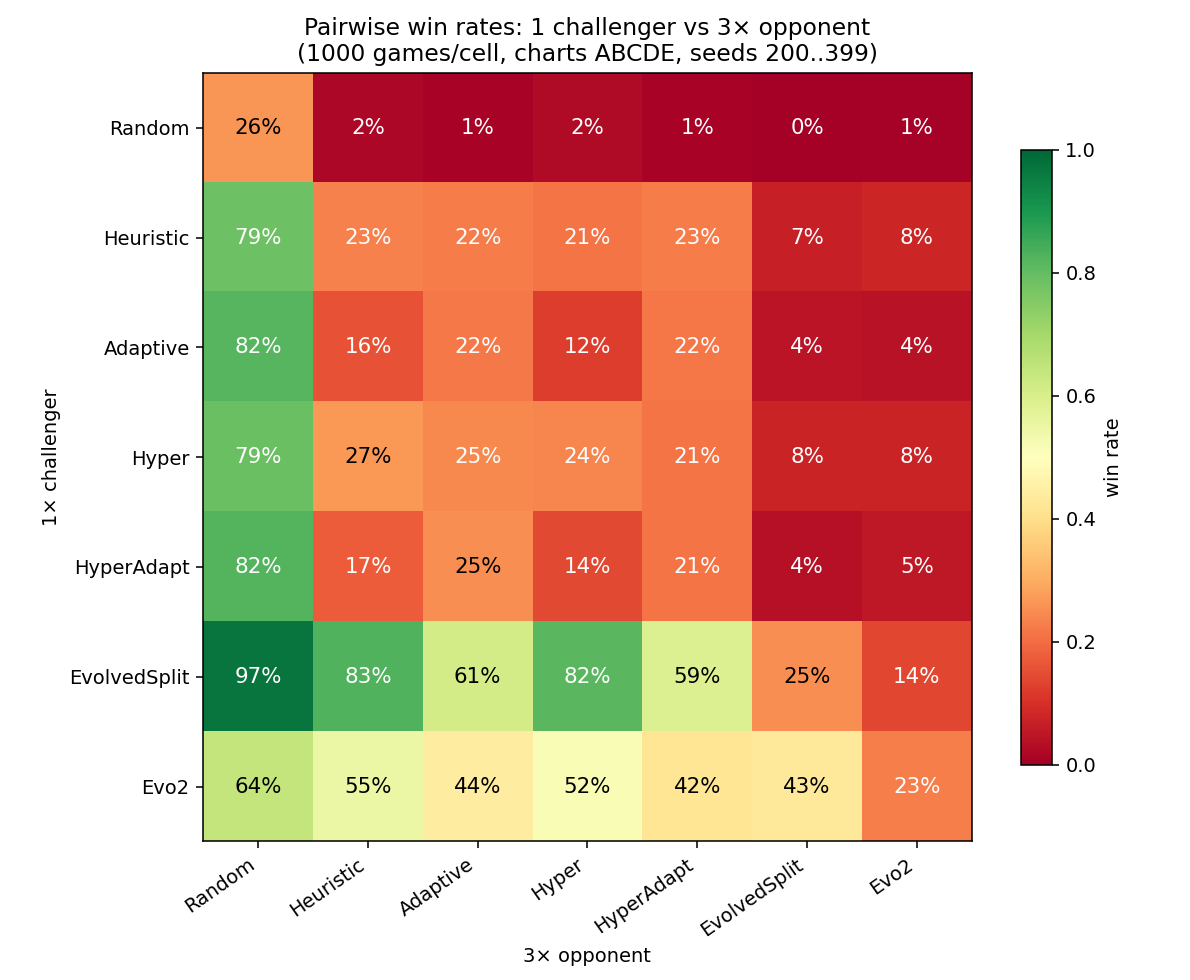
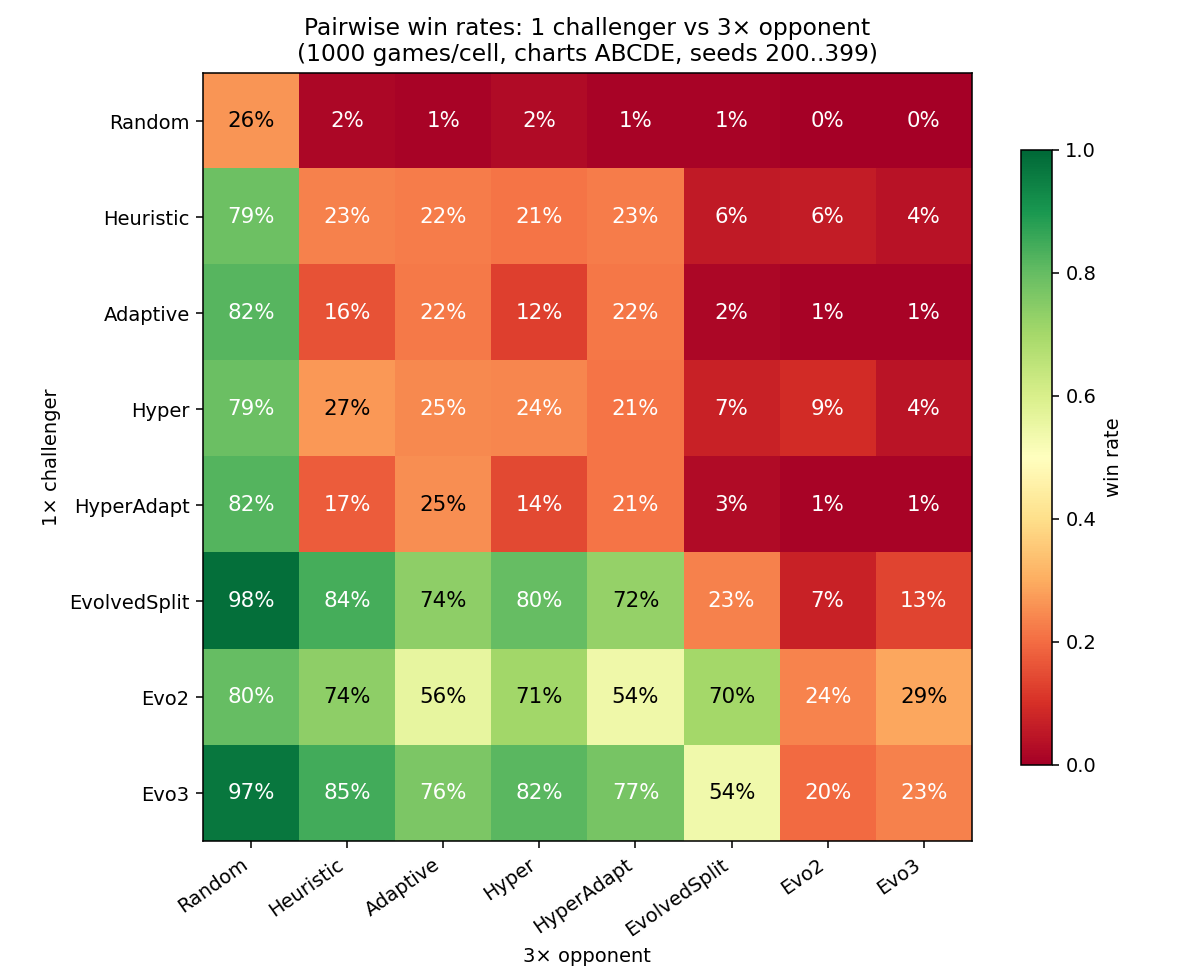
Load AI weights only from saved_best_weights/; refresh heatmap
artifacts/ is transient GA output — only snapshots that have been
deliberately promoted should back the heatmap, the CLI, and the
old_evo/old_evo2/vs_evo2 opponent modes. Having loaders silently
pick up an in-progress or half-tuned file in artifacts/ made it
hard to know which weights a given eval was actually using.

Now every loader checks saved_best_weights/ only:
  * megagem/__main__.py: _evolved_factory, _evo2_factory, _evo3_factory
  * scripts/heatmap_pairwise.py: _try_load (artifacts/ dropped entirely)
  * scripts/evolve_evo2.py: _load_old_evo_weights, _load_old_evo2_weights
  * scripts/evolve_evo3.py: _load_evo2_weights
Error messages and docstrings updated accordingly.

The GA scripts still write their outputs to artifacts/ — promoting
a fresh winner is now an explicit `cp artifacts/best_weights_X.json
saved_best_weights/` step.

Heatmap refreshed to reflect the fully-trained lineup (HyperAdapt,
Evo2 vs HyperAdapt, Evo3 vs_all all in saved_best_weights/):
  * Evo3 beats Random/Heur/Adaptive/Hyper/HyperAdapt at 76-97%
  * Evo2 and Evo3 are the two strongest overall vs classical bots
  * Head-to-head Evo2 vs Evo3 favors Evo2 (29% Evo2-wins-when-
    challenger vs 20% Evo3-wins-when-challenger) — the new
    opponent-delta head hasn't closed the gap to Evo2 yet in
    same-class matchups

diff --git a/megagem/__main__.py b/megagem/__main__.py
@@ -32,25 +32,26 @@ from .players import (
 AIFactory = Callable[..., Player]
 
 
-# Weights are looked up in `artifacts/` first (where fresh GA runs land — the
-# directory is gitignored), then `saved_best_weights/` (checked-in snapshots
-# so fresh clones can play against trained AIs without running the GA).
-_WEIGHTS_DIRS: tuple[str, ...] = ("artifacts", "saved_best_weights")
+# Weights are loaded ONLY from `saved_best_weights/` (checked-in
+# snapshots). `artifacts/` is transient GA output — promote a fresh
+# run by copying its weights file into `saved_best_weights/` yourself.
+_WEIGHTS_DIR = Path("saved_best_weights")
 
 
 def _expand_weight_candidates(filenames: list[str]) -> list[Path]:
-    """Return every filename joined with every weights dir, in priority order."""
-    return [Path(d) / f for f in filenames for d in _WEIGHTS_DIRS]
+    """Return each filename joined with the canonical weights dir."""
+    return [_WEIGHTS_DIR / f for f in filenames]
 
 
 def _evolved_factory(name: str, *, seed: int, num_players: int) -> Player:
     """Build a HyperAdaptiveSplitAI with GA-evolved weights for this seat count.
 
-    Looks for ``best_weights_{N}p.json`` first (per-player-count files
-    written by ``scripts/evolve_hyper_adaptive.py``), then falls back to
-    the un-suffixed ``best_weights.json``. Each filename is tried in
-    ``artifacts/`` then ``saved_best_weights/``. Raises if nothing
-    exists so the user gets a clear error instead of a silent default.
+    Looks for ``saved_best_weights/best_weights_{N}p.json`` first
+    (per-player-count files written by
+    ``scripts/evolve_hyper_adaptive.py`` and promoted by hand), then
+    falls back to the un-suffixed ``best_weights.json``. Raises if
+    nothing exists so the user gets a clear error instead of a silent
+    default.
     """
     candidates = _expand_weight_candidates([
         f"best_weights_{num_players}p.json",
@@ -61,16 +62,17 @@ def _evolved_factory(name: str, *, seed: int, num_players: int) -> Player:
             data = json.loads(path.read_text())
             return HyperAdaptiveSplitAI.from_weights(name, data["weights"], seed=seed)
     raise SystemExit(
-        "No evolved weights found in artifacts/ or saved_best_weights/. Run "
-        "`python -m scripts.evolve_hyper_adaptive` first."
+        "No evolved weights found in saved_best_weights/. Run "
+        "`python -m scripts.evolve_hyper_adaptive` and copy "
+        "artifacts/best_weights_*.json into saved_best_weights/."
     )
 
 
 def _evo3_factory(name: str, *, seed: int, num_players: int) -> Player:
     """Build an Evo3AI with GA-evolved weights for this seat count.
 
-    Lookup order (first match wins), each filename checked in
-    ``artifacts/`` then ``saved_best_weights/``:
+    Lookup order (first match wins), all paths rooted in
+    ``saved_best_weights/``:
 
     1. ``best_weights_evo3_vs_all_{N}p.json`` — trained with the
        fitness averaged across all six previous bots. Top priority:
@@ -98,9 +100,9 @@ def _evo3_factory(name: str, *, seed: int, num_players: int) -> Player:
             data = json.loads(path.read_text())
             return Evo3AI.from_weights(name, data["weights"], seed=seed)
     print(
-        "warning: no evo3 weights in artifacts/ or saved_best_weights/ — "
-        "using class defaults. Run `python -m scripts.evolve_evo3` for "
-        "evolved weights.",
+        "warning: no evo3 weights in saved_best_weights/ — using class "
+        "defaults. Run `python -m scripts.evolve_evo3` and copy the "
+        "result into saved_best_weights/ for evolved weights.",
         file=sys.stderr,
     )
     return Evo3AI(name, seed=seed)
@@ -109,8 +111,8 @@ def _evo3_factory(name: str, *, seed: int, num_players: int) -> Player:
 def _evo2_factory(name: str, *, seed: int, num_players: int) -> Player:
     """Build an Evo2AI with GA-evolved weights for this seat count.
 
-    Lookup order (first match wins), each filename checked in
-    ``artifacts/`` then ``saved_best_weights/``:
+    Lookup order (first match wins), all paths rooted in
+    ``saved_best_weights/``:
 
     1. ``best_weights_evo2_vs_old_evo2_{N}p.json`` — trained against
        an earlier Evo2AI snapshot. Top priority because this is a
@@ -138,9 +140,9 @@ def _evo2_factory(name: str, *, seed: int, num_players: int) -> Player:
             data = json.loads(path.read_text())
             return Evo2AI.from_weights(name, data["weights"], seed=seed)
     print(
-        "warning: no evo2 weights in artifacts/ or saved_best_weights/ — "
-        "using class defaults. Run `python -m scripts.evolve_evo2` for "
-        "evolved weights.",
+        "warning: no evo2 weights in saved_best_weights/ — using class "
+        "defaults. Run `python -m scripts.evolve_evo2` and copy the "
+        "result into saved_best_weights/ for evolved weights.",
         file=sys.stderr,
     )
     return Evo2AI(name, seed=seed)

diff --git a/scripts/evolve_evo2.py b/scripts/evolve_evo2.py
@@ -26,9 +26,10 @@ Three opponent modes:
 
 2. **``--opponent old_evo``.** Opponents are fixed: ``num_players − 1``
    instances of ``HyperAdaptiveSplitAI`` loaded from
-   ``artifacts/best_weights_{N}p.json``. Use this to evolve a
-   challenger that *specifically* beats the pre-Evo2 champion. Errors
-   if the old-evo weights file for the chosen seat count doesn't exist.
+   ``saved_best_weights/best_weights_{N}p.json``. Use this to evolve
+   a challenger that *specifically* beats the pre-Evo2 champion.
+   Errors if the old-evo weights file for the chosen seat count
+   doesn't exist.
 
 3. **``--opponent old_evo2``.** Opponents are fixed: ``num_players − 1``
    instances of ``Evo2AI`` loaded from the existing best Evo2 weights
@@ -187,11 +188,10 @@ def _load_old_evo_weights(num_players: int) -> list[float]:
     ``best_weights.json`` so the script still works on older artifact
     layouts. Errors loudly if neither exists.
     """
-    filenames = [
-        f"best_weights_{num_players}p.json",
-        "best_weights.json",
+    candidates = [
+        Path("saved_best_weights") / f"best_weights_{num_players}p.json",
+        Path("saved_best_weights") / "best_weights.json",
     ]
-    candidates = [Path(d) / f for f in filenames for d in ("artifacts", "saved_best_weights")]
     for path in candidates:
         if path.exists():
             data = json.loads(path.read_text())
@@ -204,8 +204,9 @@ def _load_old_evo_weights(num_players: int) -> list[float]:
             return weights
     raise SystemExit(
         f"Old-evo opponent requested but no weights file found. Run "
-        f"`python -m scripts.evolve_hyper_adaptive` first to produce "
-        f"artifacts/best_weights_{num_players}p.json."
+        f"`python -m scripts.evolve_hyper_adaptive` and copy "
+        f"artifacts/best_weights_{num_players}p.json into "
+        f"saved_best_weights/."
     )
 
 
@@ -225,13 +226,12 @@ def _load_old_evo2_weights(num_players: int) -> tuple[list[float], Path]:
     iterative refinement, copy the new file over a higher-priority
     name yourself.
     """
-    filenames = [
-        f"best_weights_evo2_vs_old_{num_players}p.json",
-        f"best_weights_evo2_self_{num_players}p.json",
-        f"best_weights_evo2_{num_players}p.json",
-        "best_weights_evo2.json",
+    candidates = [
+        Path("saved_best_weights") / f"best_weights_evo2_vs_old_{num_players}p.json",
+        Path("saved_best_weights") / f"best_weights_evo2_self_{num_players}p.json",
+        Path("saved_best_weights") / f"best_weights_evo2_{num_players}p.json",
+        Path("saved_best_weights") / "best_weights_evo2.json",
     ]
-    candidates = [Path(d) / f for f in filenames for d in ("artifacts", "saved_best_weights")]
     for path in candidates:
         if path.exists():
             data = json.loads(path.read_text())
@@ -243,9 +243,10 @@ def _load_old_evo2_weights(num_players: int) -> tuple[list[float], Path]:
                 )
             return weights, path
     raise SystemExit(
-        "Old-evo2 opponent requested but no Evo2 weights file found. "
-        "Run `python -m scripts.evolve_evo2` (default self-play mode) "
-        f"first to produce artifacts/best_weights_evo2_self_{num_players}p.json."
+        "Old-evo2 opponent requested but no Evo2 weights file found in "
+        "saved_best_weights/. Run `python -m scripts.evolve_evo2` "
+        "(default self-play mode) and copy the result into "
+        "saved_best_weights/ first."
     )
 
 
@@ -675,10 +676,9 @@ def main() -> None:
         help=(
             "Opponent source. 'self_play' samples from the current "
             "population each generation; 'old_evo' uses fixed "
-            "HyperAdaptiveSplitAI loaded from artifacts/best_weights*; "
+            "HyperAdaptiveSplitAI loaded from saved_best_weights/; "
             "'old_evo2' uses fixed Evo2AI loaded from "
-            "artifacts/best_weights_evo2_* (lookup chain matches "
-            "`--ai evo2`)."
+            "saved_best_weights/ (lookup chain matches `--ai evo2`)."
         ),
     )
     parser.add_argument(

diff --git a/scripts/evolve_evo3.py b/scripts/evolve_evo3.py
@@ -212,14 +212,13 @@ def _load_evo2_weights(num_players: int) -> tuple[list[float], Path]:
     defaults baked into ``Evo2AI``; we flatten those into a 19-element
     vector and return a sentinel path so the caller can log "defaults".
     """
-    filenames = [
-        f"best_weights_evo2_vs_old_evo2_{num_players}p.json",
-        f"best_weights_evo2_vs_old_{num_players}p.json",
-        f"best_weights_evo2_self_{num_players}p.json",
-        f"best_weights_evo2_{num_players}p.json",
-        "best_weights_evo2.json",
+    candidates = [
+        Path("saved_best_weights") / f"best_weights_evo2_vs_old_evo2_{num_players}p.json",
+        Path("saved_best_weights") / f"best_weights_evo2_vs_old_{num_players}p.json",
+        Path("saved_best_weights") / f"best_weights_evo2_self_{num_players}p.json",
+        Path("saved_best_weights") / f"best_weights_evo2_{num_players}p.json",
+        Path("saved_best_weights") / "best_weights_evo2.json",
     ]
-    candidates = [Path(d) / f for f in filenames for d in ("artifacts", "saved_best_weights")]
     for path in candidates:
         if path.exists():
             data = json.loads(path.read_text())
@@ -749,8 +748,8 @@ def main() -> None:
             "all six previous bots (Random, Heuristic, Adaptive, Hyper, "
             "HyperAdapt, Evo2) — takes 6× longer than single-opponent "
             "modes but avoids overfit. 'vs_evo2' uses fixed Evo2AI "
-            "loaded from artifacts/best_weights_evo2_* (lookup chain "
-            "matches `--ai evo2`); 'self_play' samples from the current "
+            "loaded from saved_best_weights/ (lookup chain matches "
+            "`--ai evo2`); 'self_play' samples from the current "
             "population each generation."
         ),
     )

diff --git a/scripts/heatmap_pairwise.py b/scripts/heatmap_pairwise.py
@@ -45,22 +45,19 @@ SEED_START = 200       # held out: GA trained on 0..9
 GAMES_PER_CHART = 200  # 1000 games per cell (5 charts × 200 seeds)
 
 
-# Weights are looked up in `artifacts/` first (fresh GA runs, gitignored),
-# then `saved_best_weights/` (checked-in snapshots).
-_WEIGHTS_DIRS: tuple[str, ...] = ("artifacts", "saved_best_weights")
+# Weights are looked up ONLY in `saved_best_weights/` (checked-in
+# snapshots). `artifacts/` holds intermediate GA output that may not
+# reflect the canonical "best ever" — promote a fresh run by copying
+# its weights file into `saved_best_weights/`.
+_WEIGHTS_DIR = Path("saved_best_weights")
 
 
 def _try_load(*filenames: str) -> list[float] | None:
-    """Return the weights from the first existing candidate path, else None.
-
-    Each filename is searched in every directory in ``_WEIGHTS_DIRS``,
-    in priority order. The first file that exists wins.
-    """
+    """Return the weights from the first existing candidate path, else None."""
     for filename in filenames:
-        for d in _WEIGHTS_DIRS:
-            path = Path(d) / filename
-            if path.exists():
-                return json.loads(path.read_text())["weights"]
+        path = _WEIGHTS_DIR / filename
+        if path.exists():
+            return json.loads(path.read_text())["weights"]
     return None
 
 
